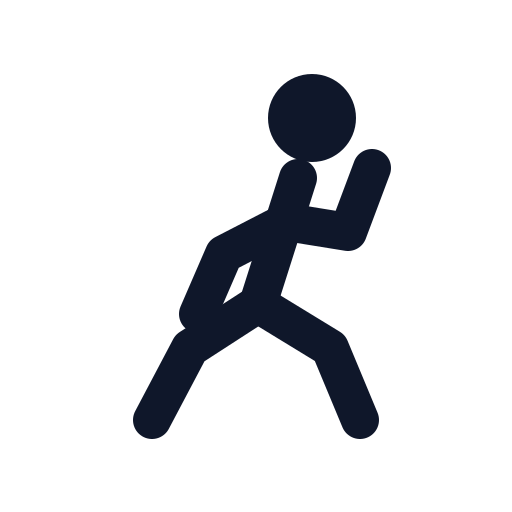
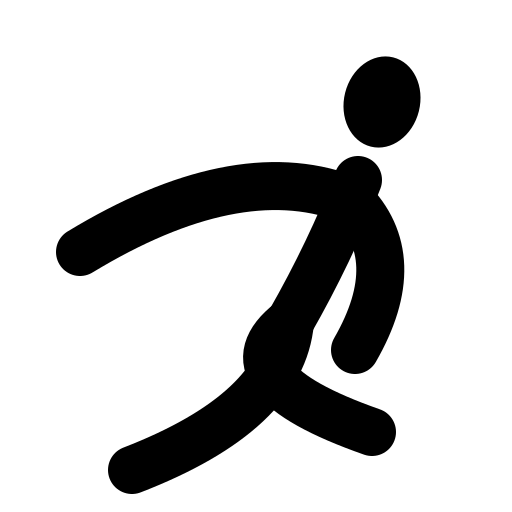
New runner pictogram + white PWA splash + restore last-viewed day
- icon.svg redrawn as bold flowing curves (Olympic-pictogram style):
  filled head ellipse + 5 thick stroked paths for back-arm sweep,
  torso, front-arm bend, lifted front leg, extended back leg. PNGs
  regenerated via `npm run icons` (32/180/192/512).
- manifest background_color → #ffffff so the standalone splash is
  full-white under the white-bg icon instead of a tiny logo on slate
  with grey margins. theme_color stays #0f172a for the dark header.
  Icons marked `purpose: any maskable` for Android adaptive icons.
- App.jsx: viewedDate now restores from localStorage if the saved
  entry is from the same logical day (04:00 boundary). Tapping the
  app icon within the day lands back on the day the user was working
  with; a new logical day resets to today. Persisted on every change.

Changed region(s): [[0.0938, 0.0938, 0.8438, 0.9688]]

diff --git a/src/App.jsx b/src/App.jsx
@@ -43,6 +43,28 @@ import UndoSnackbar from "./components/UndoSnackbar.jsx";
 // Earliest date user can navigate to. History starts here.
 const HISTORY_START = "2026-05-25";
 
+// localStorage key for last-viewed day restoration.
+// Tap-into-app should land on the day the user last interacted with, but only
+// within the same logical day (after 04:00 rollover → reset to today).
+const VIEWED_DATE_KEY = "viewed_date_v1";
+
+function restoreViewedDate() {
+  try {
+    const raw = localStorage.getItem(VIEWED_DATE_KEY);
+    if (!raw) return null;
+    const { viewed, savedAt } = JSON.parse(raw);
+    if (!viewed || !savedAt) return null;
+    const todayLogicalDay = toDateStr(logicalNow());
+    const savedLogicalDay = toDateStr(logicalNow(new Date(savedAt)));
+    // New logical day since last visit → start fresh on today.
+    if (savedLogicalDay !== todayLogicalDay) return null;
+    const d = new Date(viewed);
+    if (Number.isNaN(d.getTime())) return null;
+    if (toDateStr(d) < HISTORY_START) return null;
+    return d;
+  } catch { return null; }
+}
+
 export default function App() {
   // Live config from store (plan/schedule/habits/polza). Sheet is source of truth;
   // defaults seed bootstrap before fetch returns.
@@ -52,7 +74,20 @@ export default function App() {
   // Persistent backend-connection status: null (never) | {ok:true} | {ok:false, error}
   const [lastSync,      setLastSync]      = useState(null);
 
-  const [viewedDate, setViewedDate] = useState(() => logicalNow());
+  // Lazy init: if we have a saved viewed-date from the same logical day, restore
+  // it so reopening the app within the day lands back where the user left off.
+  const [viewedDate, setViewedDate] = useState(() => restoreViewedDate() || logicalNow());
+
+  // Persist viewed-date on every change. restoreViewedDate() decides on next boot
+  // whether the saved value is still relevant (same logical day) or stale.
+  useEffect(() => {
+    try {
+      localStorage.setItem(VIEWED_DATE_KEY, JSON.stringify({
+        viewed:  viewedDate.toISOString(),
+        savedAt: new Date().toISOString(),
+      }));
+    } catch { /* quota / disabled storage — non-fatal */ }
+  }, [viewedDate]);
 
   // ── logsMap: { [weekIso]: Log[] } ────────────────────────────────────────
   // Keeps data for every week we've visited in memory.
